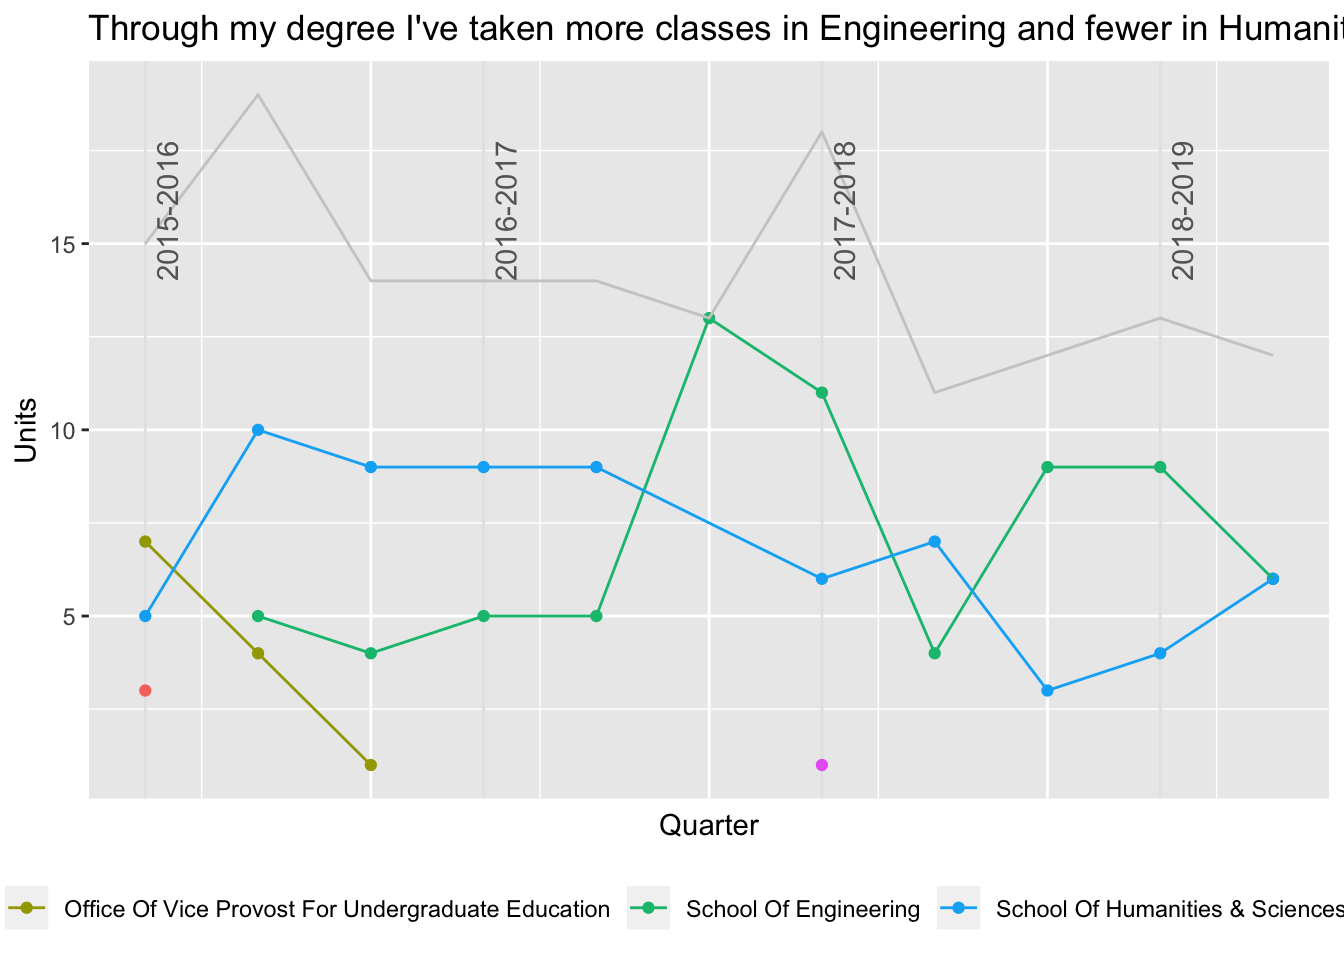
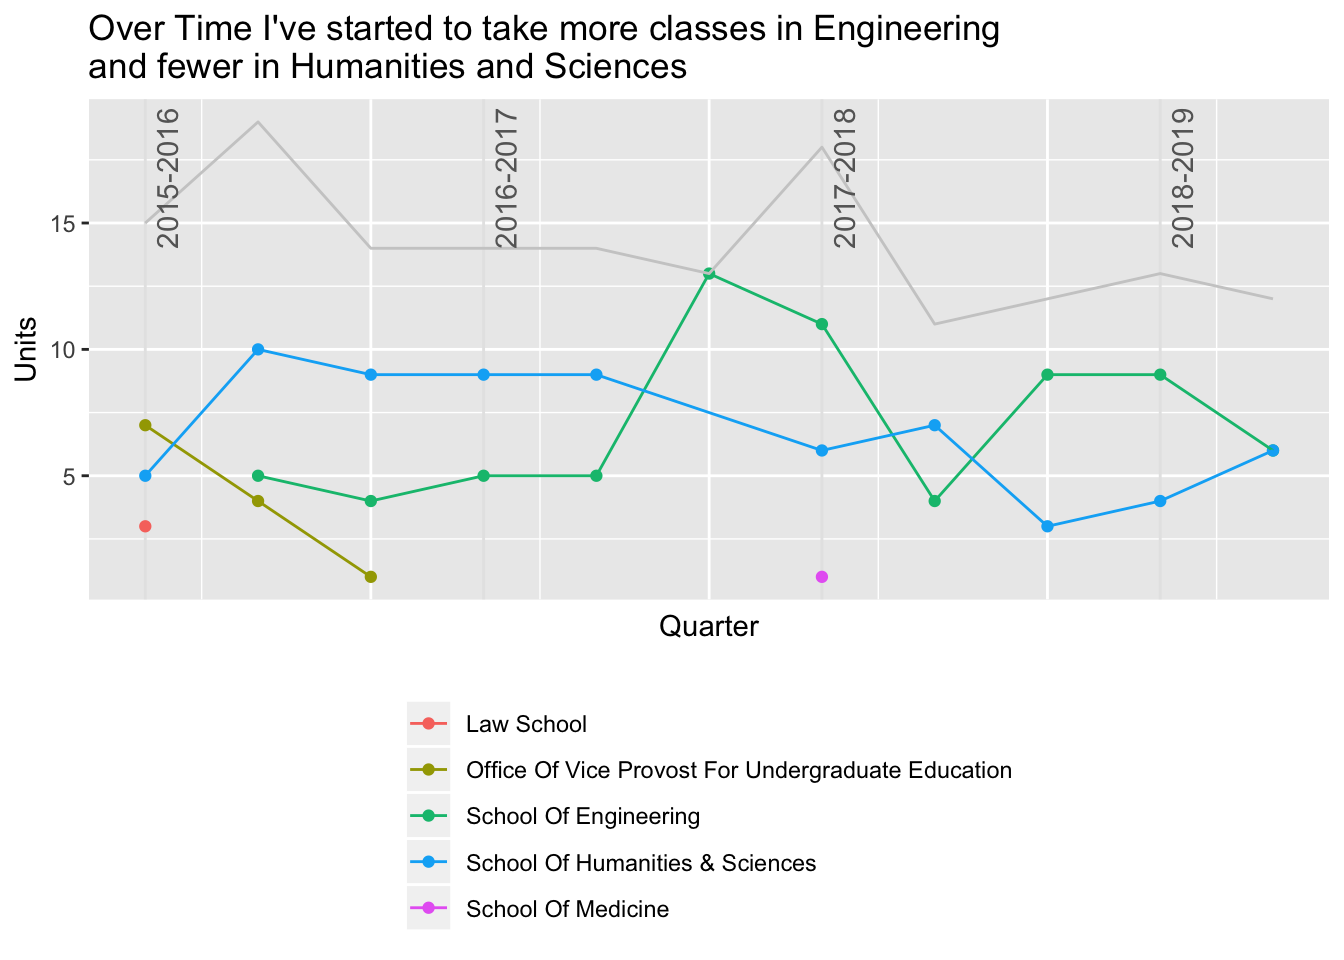
edit course desc post

diff --git a/post/2019-02-28-visualizing-course-descriptions/index.html b/post/2019-02-28-visualizing-course-descriptions/index.html
@@ -386,7 +386,7 @@
   
   <span class="middot-divider"></span>
   <span class="article-reading-time">
-    10 min read
+    9 min read
   </span>
   
 
@@ -662,6 +662,7 @@ classes %&gt;%
   ) +
   theme(
     legend.position = &quot;bottom&quot;,
+    legend.direction = &quot;vertical&quot;,
     axis.ticks.x = element_blank(),
     axis.text.x = element_blank()
   ) +
@@ -669,7 +670,7 @@ classes %&gt;%
     x = &quot;Quarter&quot;,
     y = &quot;Units&quot;,
     color = NULL,
-    title = &quot;Through my degree I&#39;ve taken more classes in Engineering and fewer in Humanities and Sciences&quot;
+    title = &quot;Over Time I&#39;ve started to take more classes in Engineering\nand fewer in Humanities and Sciences&quot;
   )</code></pre>
 <p><img src="/post/2019-02-28-visualizing-course-descriptions_files/figure-html/unnamed-chunk-6-1.png" width="672" /></p>
 <p>…what about by Department?</p>
@@ -752,46 +753,8 @@ head(explore_courses, 2) %&gt;% knitr::kable()</code></pre>
 <p>Now we can join this to <code>classes</code>:</p>
 <pre class="r"><code>classes_with_descriptions &lt;-
   classes %&gt;% 
-  left_join(explore_courses, by = c(&quot;dept&quot;, &quot;code&quot;))
-
-head(classes_with_descriptions, 2) %&gt;% knitr::kable()</code></pre>
-<table>
-<thead>
-<tr class="header">
-<th align="left">dept</th>
-<th align="left">code</th>
-<th align="left">school</th>
-<th align="right">units</th>
-<th align="right">quarter</th>
-<th align="right">code_numeric</th>
-<th align="left">title</th>
-<th align="left">desc</th>
-</tr>
-</thead>
-<tbody>
-<tr class="odd">
-<td align="left">ESF</td>
-<td align="left">6A</td>
-<td align="left">Office Of Vice Provost For Undergraduate Education</td>
-<td align="right">7</td>
-<td align="right">1</td>
-<td align="right">6</td>
-<td align="left">Education as Self-Fashioning: The Wind of Freedom</td>
-<td align="left">Stanford’s unofficial motto, “the wind of freedom blows,” engraved in German on the university seal, invites us the ponder freedom in the context of education. What is the relation between freedom and the “liberal” arts? Does studying free your mind? Does free will even exist? If so, how does education help you develop its potential? This course will look at various authors – from antiquity through the 20th century – who have thought about the blessings, burdens, and obligations of human freedom. Beginning with Eve in the Garden of Eden, we will explore how exercising freedom in your personal choices and conduct not only determines your fate as an individual but carries with it a measure of responsibility for the world. We will place special emphasis on the implications of such responsibility in our own time.</td>
-</tr>
-<tr class="even">
-<td align="left">LAWGEN</td>
-<td align="left">116N</td>
-<td align="left">Law School</td>
-<td align="right">3</td>
-<td align="right">1</td>
-<td align="right">116</td>
-<td align="left">NA</td>
-<td align="left">NA</td>
-</tr>
-</tbody>
-</table>
-<p>Even in the first six results, there are some <code>NA</code> values resulting from the join. A concern is that the matching of <code>dept</code> and <code>code</code> isn’t working due to a formatting quirk. Sadly, it’s even worse… Explore Courses deletes classes after they haven’t been offered for a while!</p>
+  left_join(explore_courses, by = c(&quot;dept&quot;, &quot;code&quot;))</code></pre>
+<p>Even in the first few results, there are some <code>NA</code> values resulting from the join. A concern is that the matching of <code>dept</code> and <code>code</code> isn’t working due to a formatting quirk. Sadly, it’s even worse… Explore Courses deletes classes after they haven’t been offered for a while!</p>
 <pre class="r"><code>classes_with_descriptions %&gt;% 
   filter(is.na(desc)) %&gt;% 
   knitr::kable()</code></pre>

diff --git a/index.html b/index.html
@@ -935,7 +935,7 @@
   
   <span class="middot-divider"></span>
   <span class="article-reading-time">
-    10 min read
+    9 min read
   </span>
   
 

diff --git a/post/index.html b/post/index.html
@@ -430,7 +430,7 @@
   
   <span class="middot-divider"></span>
   <span class="article-reading-time">
-    10 min read
+    9 min read
   </span>
   
 
